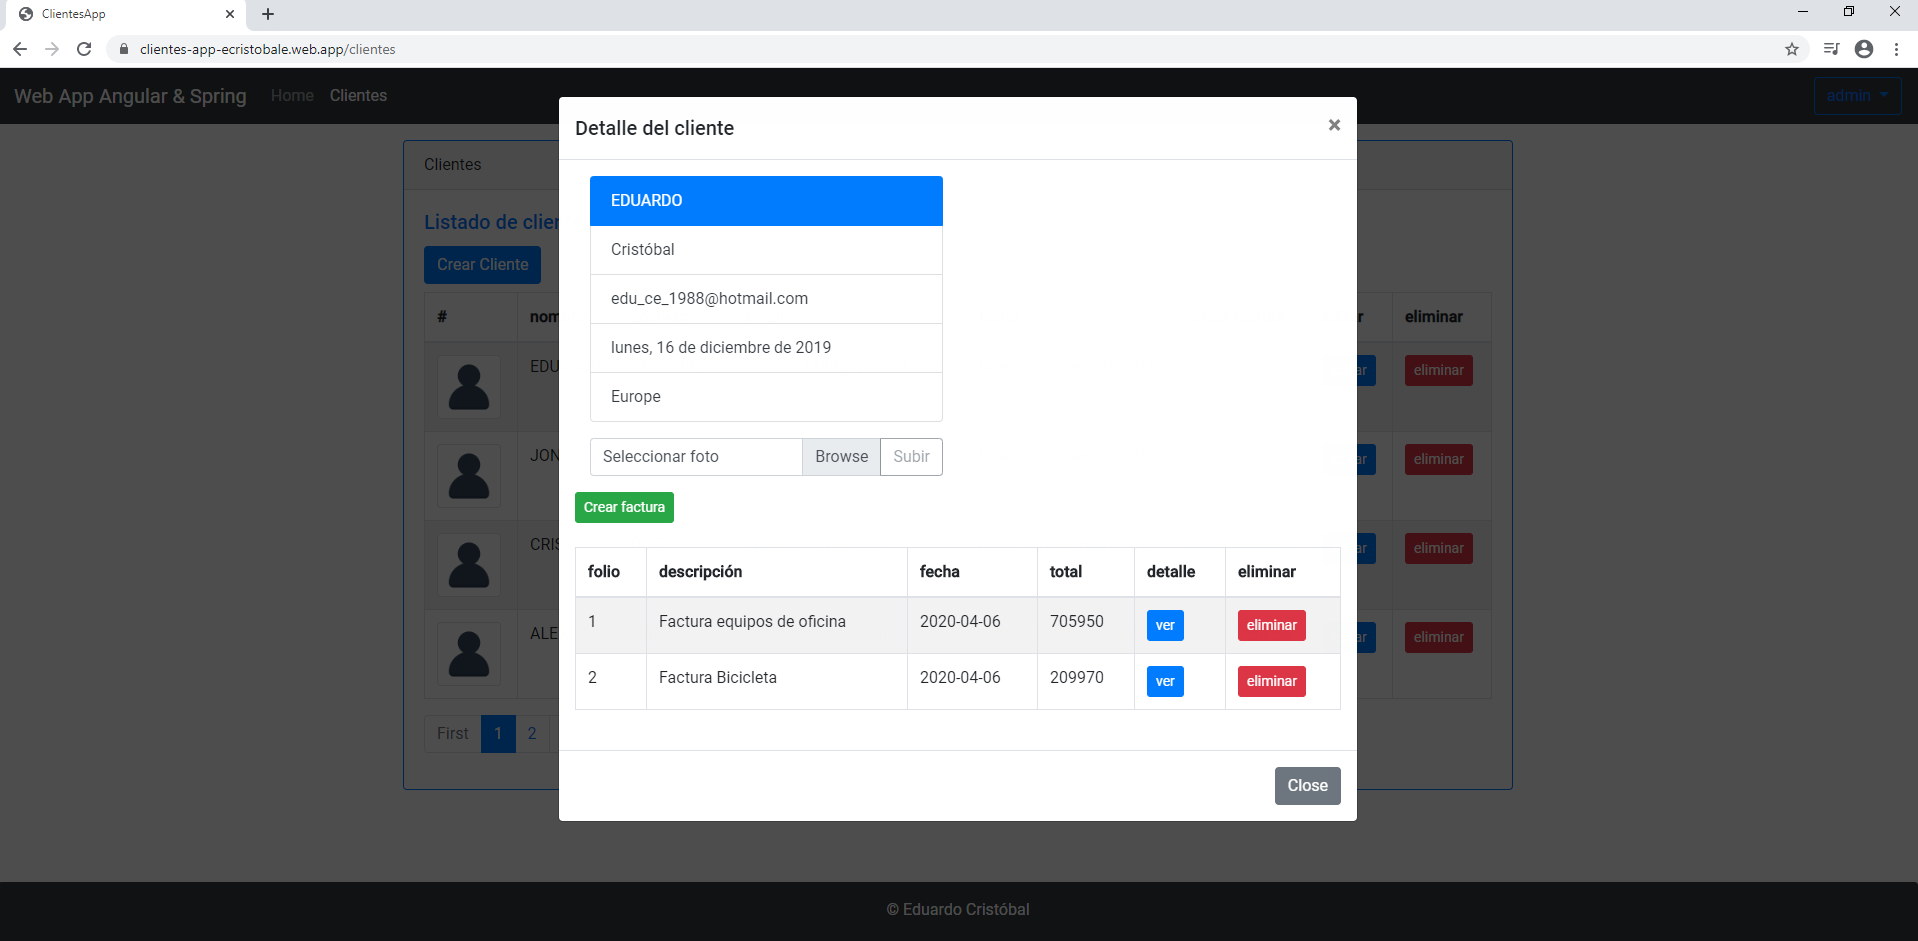
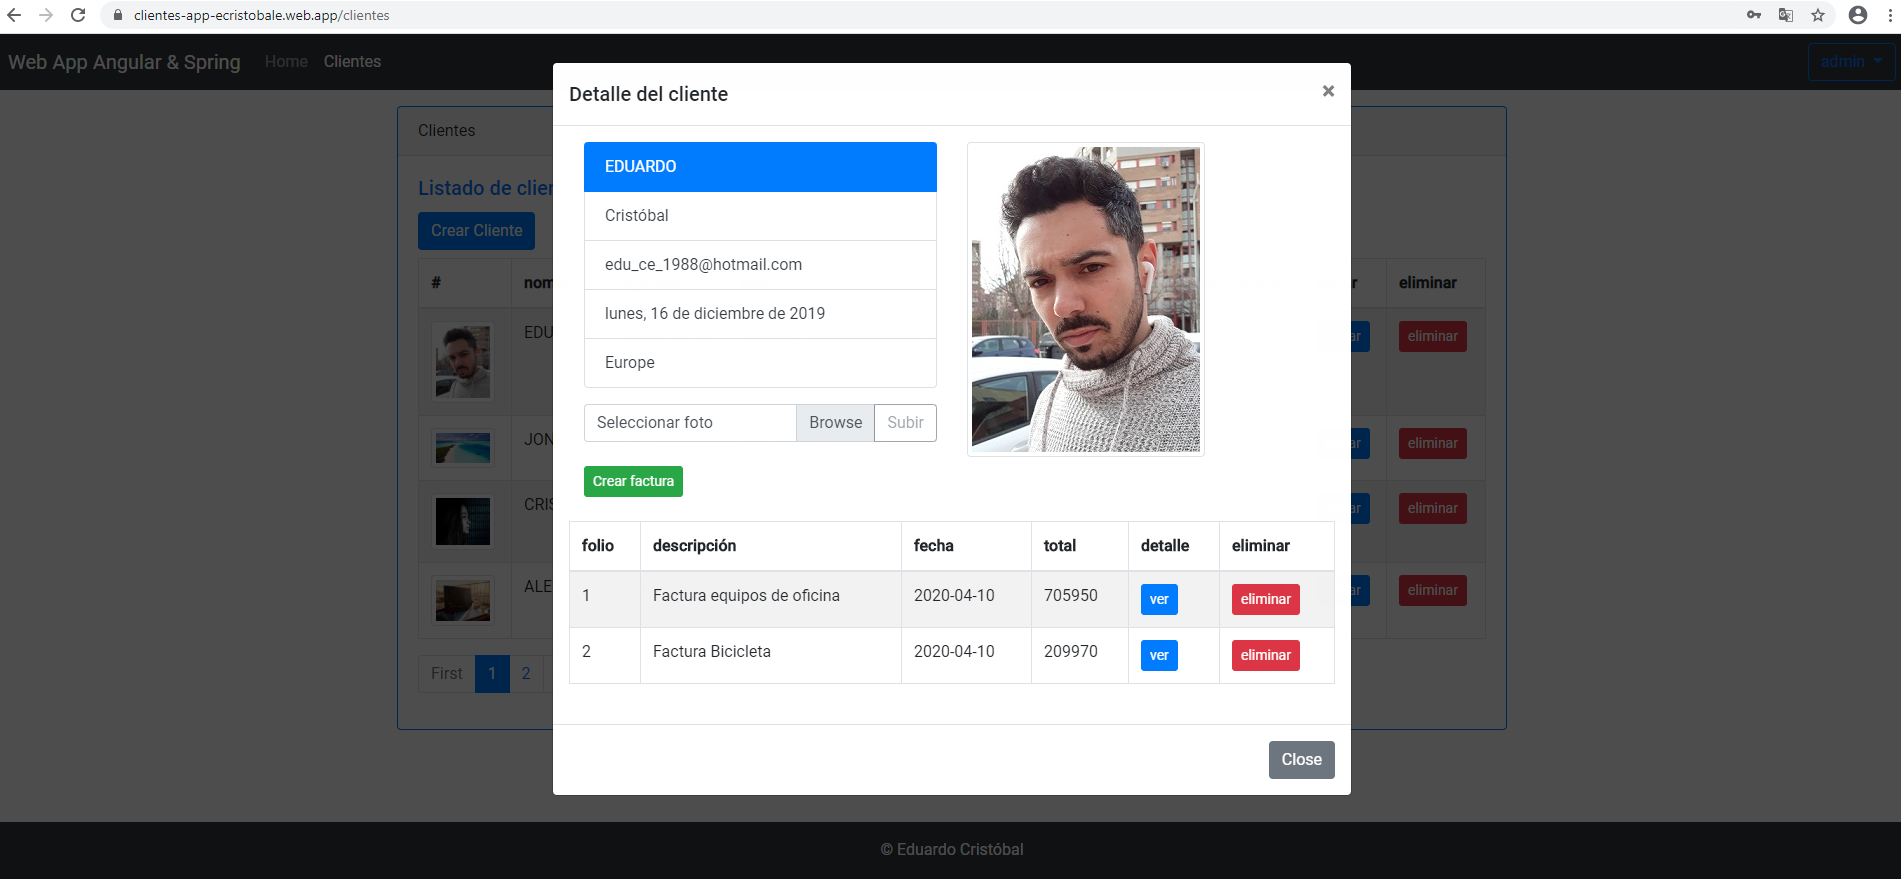
Updated the webapplication screenshots from README.md

diff --git a/README.md b/README.md
@@ -6,7 +6,10 @@
 Main page without login:
 ![Alt text](web-app-screenshots/main_page.PNG?raw=true "Main Page")
 
-Login screen (ask me if you want to share with you any user):
+Some warnings indicating that the requested pages are in a restricted area:
+![Alt text](web-app-screenshots/area_restrictions_based_on_roles.PNG?raw=true "Main Page")
+
+Login screen (ask me if you want me to share with you any user to see the whole application):
 ![Alt text](web-app-screenshots/login_page.PNG?raw=true "Login Page")
 
 Main page with admin role:
@@ -26,6 +29,9 @@ Create new invoice with admin role (with form validation and autocomplete in pro
 
 Client details with admin role:
 ![Alt text](web-app-screenshots/admin_client_details.PNG?raw=true "Client Details Page - Admin")
+
+Client details upload an image (with progress bar animation) with admin role:
+![Alt text](web-app-screenshots/admin_client_photo_uploaded_with_progress_bar.PNG?raw=true "Client Details Upload An Image Page - Admin")
 
 Client details with user role:
 ![Alt text](web-app-screenshots/user_client_details.PNG?raw=true "Client Details Page - User")
